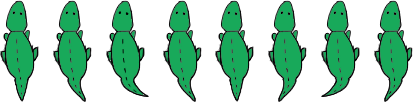
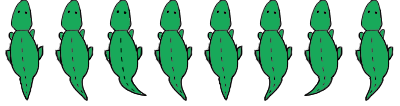
Pre-production fix
preproduction round up

diff --git a/src/scenes/Play.js b/src/scenes/Play.js
@@ -5,9 +5,11 @@ class Play extends Phaser.Scene {
 
         preload() {
                 // load images/tile sprites
-                this.load.image('dino', './assets/dino.png');
+                //this.load.image('dino', './assets/dino.png');
                 this.load.image('log', './assets/log.png');
                 this.load.image('tile', './assets/background.png');
+
+                this.load.spritesheet('dino', './assets/dino.png', {frameWidth: 50, frameHeight: 102, startFrame: 0, endFrame: 7});
         }
 
         create() {
@@ -27,20 +29,21 @@ class Play extends Phaser.Scene {
                 keyD = this.input.keyboard.addKey(Phaser.Input.Keyboard.KeyCodes.D);
                 keySPACE = this.input.keyboard.addKey(Phaser.Input.Keyboard.KeyCodes.SPACE);
 
-                // player animation
-                // this.anims.create({
-                //         key: 'wiggle',
-                //         frames: this.anims.generateFrameNumbers('dino', { start: 0, end: 1 }),
-                //         frameRate: 30,
-                //         repeat: -1
-                //     });
+                //player animation
+                this.anims.create({
+                        key: 'wiggle',
+                        frames: this.anims.generateFrameNumbers('dino', { start: 0, end: 7 }),
+                        frameRate: 30,
+                        repeat: -1
+                    });
 
                 // place tile sprite
-                this.bgtile = this.add.tileSprite(0, 0, 640, 480, 'tile').setOrigin(0, 0);
+                this.bgtile = this.add.tileSprite(0, 0, 720, 540, 'tile').setOrigin(0, 0);
 
                 // create player model
                 this.dinosaur = this.physics.add.sprite(centerX, h - 40, 'dino').setOrigin(0.5);
                 this.dinosaur.destroyed = false;
+                this.dinosaur.anims.play('wiggle');
                 this.dinosaur.setImmovable(false);
                 // this.dinosaur.setMaxVelocity(0, 400);
                 this.dinosaur.setVelocityX(0);
@@ -70,12 +73,13 @@ class Play extends Phaser.Scene {
                 }
 
                 // player movements
-                if (this.dinosaur.destroyed = false) {
-                        if (cursors.A.isDown) {
+                if (this.dinosaur.destroyed == false) {
+                        if (keyA.isDown) {
                                 this.dinosaur.setVelocityX(-200);
+
                                 // this.dinosaur.anims.play('wiggle');
                         }
-                        else if (cursors.D.isDown) {
+                        else if (keyD.isDown) {
                                 this.dinosaur.setVelocityX(200);
                                 // this.dinosaur.anims.play('wiggle');
                         }
@@ -89,7 +93,7 @@ class Play extends Phaser.Scene {
 
         addObstacle() {
                 // create new obstacles
-                let obstacle = new Obstacle(this, 400);
+                let obstacle = new Obstacle(this, 300);
                 this.ObstacleGroup.add(obstacle);
         }
 
